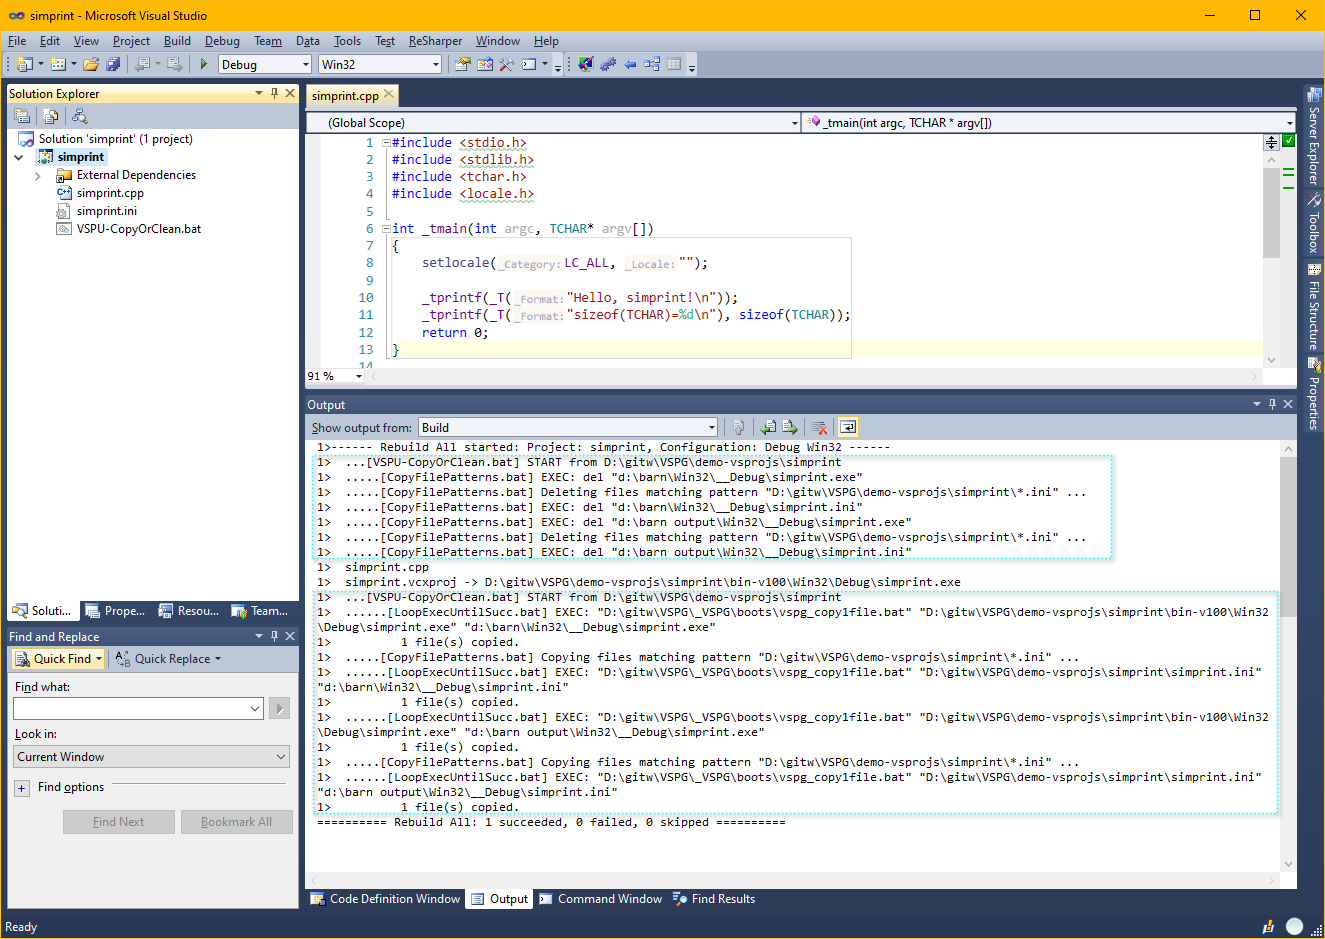
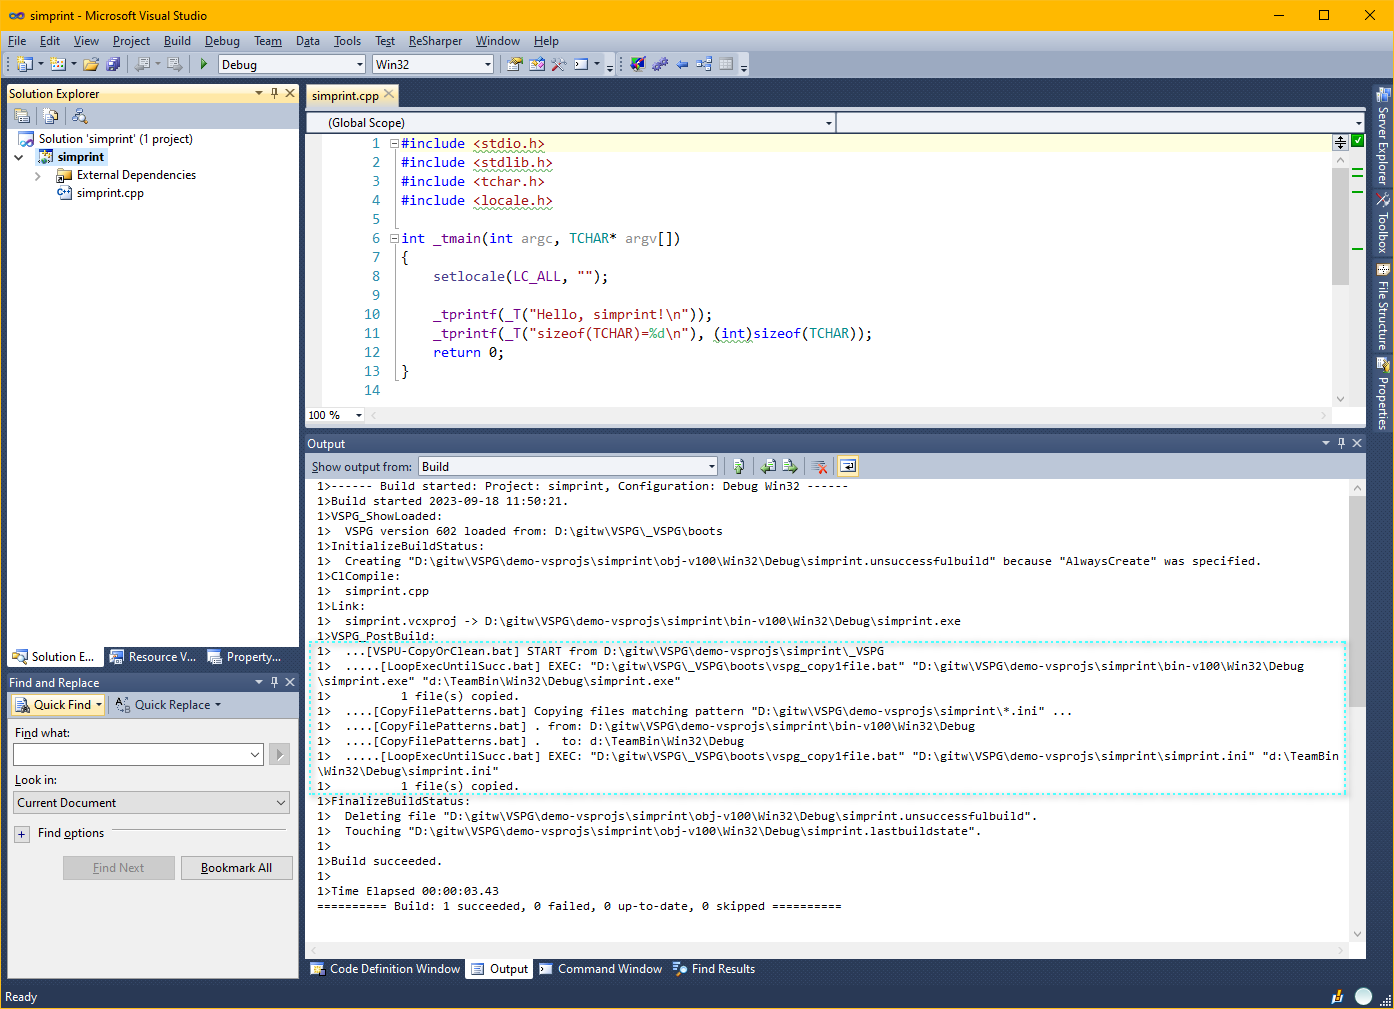
Update demo and doc of simprint.

Changed region(s): [[0.0, 0.0, 1.0, 1.0], [0.9283, 0.0, 0.9592, 0.0309], [0.8355, 0.5559, 0.8664, 0.5868]]

diff --git a/demo-vsprojs/simprint/simprint.cpp b/demo-vsprojs/simprint/simprint.cpp
@@ -8,7 +8,6 @@ int _tmain(int argc, TCHAR* argv[])
 	setlocale(LC_ALL, "");
 	
 	_tprintf(_T("Hello, simprint!\n"));
-	_tprintf(_T("sizeof(TCHAR)=%d\n"), sizeof(TCHAR));
+	_tprintf(_T("sizeof(TCHAR)=%d\n"), (int)sizeof(TCHAR));
 	return 0;
 }
-

diff --git a/demo-vsprojs/simprint/README.md b/demo-vsprojs/simprint/README.md
@@ -2,57 +2,146 @@
 
 This example demonstrates the most commonly used, and perhaps the most intuitive action of VSPG.
 
-By using a triggering file named `VSPU-CopyOrClean.bat`, you tell VSPG to copy output EXE file
-to extra target directories(here called barn directories, or barns).
+By using a triggering file named `VSPU-CopyOrClean.bat`, we tell VSPG to copy output EXE file
+to extra target directories. We can think of `VSPU-CopyOrClean.bat` file as a hook. If a file 
+by this name exists, it will be called(executed) by VSPG framework.
 
-Normally, you don't write `VSPU-CopyOrClean.bat` by hand, which is a bit complicated. 
-You just get its content from [`VSPU-CopyOrClean.bat.sample`](../../_VSPG/samples/VSPU-CopyOrClean.bat.sample) 
-and do minor modification according to your own environment.
+Typically, user places `VSPU-CopyOrClean.bat` side-by-side with .vcxproj, or inside sub-directory 
+named `_VSPG`. VSPG framework will look into these two hook places and calls them if either of 
+them exists. If they both exist, both will be called.
 
-In Visual Studio IDE, build this project(simprint.vcxproj), you see the following build output:
+Convention of choice:
+* If a hook action should be shared by the whole team (i.e., every staff of this software
+project team should take this action when building this project), we place the hook file in `_VSPG`,
+and that hook file is committed to source control like git/svn.
+* If a team member wants to initiate some hook action according to his own preference (for example,
+copy the output exe to a remote-machine shared folder for remote debugging), then the hook file 
+if created side-by-side with .vcxproj, and the hook file is not committed to source control.
+
+## Content of `VSPU-CopyOrClean.bat`
+
+Normally, we don't write `VSPU-CopyOrClean.bat` from scratch, which is quite a bit verbose. 
+
+We just grab a sample .bat from VSPG's stock files and do some customization to the file content.
+
+In this example, 
+* We use the sample file [`VSPU-CopyOrClean.bat.sample1`](../../_VSPG/samples/VSPU-CopyOrClean.bat.sample1) .
+* We copy that sample file to `_VSPG` subdir and rename it to be `VSPU-CopyOrClean.bat` 
+and do minor modification according to our own environment.
+
+The actual working `_VSPG\VSPU-CopyOrClean.bat` file looks like this, which key content marked inside 
+a dashed frame.
+
+![vspu-copy-commands.png](doc/vspu-copy-commands.png)
+
+As we can see, instead of using Windows internal `copy` command to do file copy, we use VSPG-provided 
+`CopyFilePatterns.bat` to do the copy work. The benefit is, `CopyFilePatterns.bat` does quite some 
+extra and friendly work for us. We'll explain this later.
+
+## Build the project in Visual Studio IDE
+
+In Visual Studio IDE(we can use any version since VS2010), open simprint.vcxproj and build it, 
+we see the following build output:
 
 ![VS2010 VSIDE build output](doc/vs2010-build-output.png)
 
 The output text in dashed blue frame is output by VSPG.
 
-And we see that `simprint.exe` and `simprint.ini` are copied to two barn directories:
+And we see that `simprint.exe` and `simprint.ini` are copied to `D:\TeamBin\Win32\Debug` folder.
 
-```
-D:\barn\Win32\__Debug
-D:\barn output\Win32\__Debug
-```
 
-![barn-output-folder.png](doc/barn-output-folder.png)
+![teambin-output-folder.png](doc/teambin-output-folder.png)
 
 ## Explanation of details
 
-### A manual tweak is needed in .cvcxproj 
+### To activate VSPG, a manual tweak is needed in .vcxproj 
 
-To bootstrap VSPG from a specific vcxproj, an `<Import>` statement need to exist at end of the .vcxproj file. For a vcxproj file created by Visual Studio project wizard, we need to add it manually.
+To bootstrap(activate) VSPG from a specific vcxproj, an `<Import>` statement needs to exist 
+at end of the .vcxproj file. For a .vcxproj file created by Visual Studio project wizard, 
+we need to add it manually.
 
-So you see the following content at end of simprint.vcxproj .
+We can see the following content at end of simprint.vcxproj .
 
 ![vcxproj-bootstrap-vspg.png](doc/vcxproj-bootstrap-vspg.png)
 
-Be aware, we must assign a correct directory for `<VSPG_BootsDir_NoTBS>`, otherwise, VSIDE will fail to load this vcxproj.
+Be aware, we must assign a correct directory for `<VSPG_BootsDir_NoTBS>`. 
 
-### VSPU-CopyOrClean.bat
+In this example, `VSPG_BootsDir_NoTBS` has value `..\..\_VSPG\boots`, which is a relative directory, 
+relative to the .vcxproj file. It guides VSIDE to find and import  the file 
+`..\..\_VSPG\boots\_VSPG.props`. 
 
-In `VSPU-CopyOrClean.bat`, we set three variables.
+If you place VSPG framework files at a different directory, you should change `VSPG_BootsDir_NoTBS`'s 
+value accordingly.
 
-(assuming this project is at actual directory `D:\gitw\VSPG\demo-vsprojs\simprint`)
 
-| Var-name | Var-value | Var-value expanded |
-| -------- | --------- | ------------------ |
-| AGILE_COPY_PATTERNS | "%ExeDllDir%\%TargetFilenam%" "%ProjectDir%\*.ini" | "D:\gitw\VSPG\demo-vsprojs\simprint\bin-v100\Win32\Debug\simprint.exe" "D:\gitw\VSPG\demo-vsprojs\simprint\*.ini" |
-|  AGILE_BARN_DIRS | d:\barn "d:\barn output" | d:\barn "d:\barn output" |
-| BARN_SUBDIR | %PlatformName%\\__%BuildConf% | Win32\\__Debug |
+### `CopyFilePatterns.bat` copes with copy, as well as clean 
 
-These variables(name or value) are passed to `CopyFilePatternsToDirs.bat` to carry out actual copy operation.
+If we tell VSIDE to **clean** the simprint project, we'll see that The files in 
+`D:\TeamBin\Win32\Debug` are also cleaned(deleted). This time, we see these messages in 
+VSIDE Output pane, Build region:
+
+```
+1>------ Clean started: Project: simprint, Configuration: Debug Win32 ------
+1>Build started 2023-09-18 12:11:45.
+1>_PrepareForClean:
+1>  Deleting file "D:\gitw\VSPG\demo-vsprojs\simprint\obj-v100\Win32\Debug\simprint.lastbuildstate".
+1>VSPG_Clean:
+1>  ...[VSPU-CopyOrClean.bat] START from D:\gitw\VSPG\demo-vsprojs\simprint\_VSPG
+1>  ....[CopyFilePatterns.bat] EXEC: del "d:\TeamBin\Win32\Debug\simprint.exe"
+1>  ....[CopyFilePatterns.bat] Deleting files matching pattern "D:\gitw\VSPG\demo-vsprojs\simprint\*.ini" ...
+1>  ....[CopyFilePatterns.bat] . ref-dir: D:\gitw\VSPG\demo-vsprojs\simprint\bin-v100\Win32\Debug
+1>  ....[CopyFilePatterns.bat] . del-dir: d:\TeamBin\Win32\Debug
+1>  ....[CopyFilePatterns.bat] EXEC: del "d:\TeamBin\Win32\Debug\simprint.ini"
+1>
+1>Build succeeded.
+1>
+1>Time Elapsed 00:00:00.98
+========== Clean: 1 succeeded, 0 failed, 0 skipped ==========
+```
+
+This is one of the benefits using `CopyFilePatterns.bat`, compared to manually calling `copy` 
+command ourselves.
+
+### Elegent message output from VSPG
+
+We can intuitively see that, VSPG's message output is quite distinguishable from those of
+Visual Studio(MSBuild) itself.
+* For each VSPG output line, it is prefixed with multiple leading dots, indicating current 
+bat's nested calling level (indention level).
+* After the indention dots, there is indication of current .bat's filename, so that, if some 
+VSPG .bat execution fails, we can easily identity the causing .bat .
+
+![vspg-indention-desc.png](doc/vspg-indention-desc.png)
+
+Actually, we can make a text output same elegant like this. Instead of using `echo` command 
+in .bat file, we use `call :Echos My text message` instead.
+
+The `:Echos` is a bat function defined right inside `VSPU-CopyOrClean.bat`, so we can call it.
+
+The function definition is quite simple:
+
+```
+:Echos
+  REM This function preserves %ERRORLEVEL% for the caller,
+  REM and, LastError does NOT pollute the caller.
+  setlocal & set LastError=%ERRORLEVEL%
+  echo %_vspgINDENTS%[%batfilenam%] %*
+exit /b %LastError%
+
+```
+
+Be aware, avoid using batch meta-character in your text passed to `:Echos`, which would cause 
+trouble.
+
+Batch meta-characters contains: `^`, `&` etc.
+
 
 ### Then how does our `VSPU-CopyOrClean.bat` get invoked during the build?
 
-That's because we have vcxproj import VSPG framework file `_VSPG.props`.
+That's because we have vcxproj import VSPG framework file `_VSPG.props` (described above),
+and, `_VSPG.props` defines an MSBuild target named `VSPG_PostBuild` and hook it into MSBuild 
+target tree, right after `PostBuildEvent`. The action of `VSPG_PostBuild` , is to execute 
+`VSPG-Boots.bat` which internally calls `VSPU-CopyOrClean.bat`.
 
 If you're interested, open `_VSPG.props` in a text editor, you will see such MSBuild statement:
 
@@ -67,9 +156,7 @@ If you're interested, open `_VSPG.props` in a text editor, you will see such MSB
   </Target>
 ```
 
-Here, VSPG defines a MSBuild target named `VSPG_PostBuild` and hook it into MSBuild target tree, right after `PostBuildEvent`. The action of this target, is to execute `VSPG-Boots.bat` which internally calls `VSPU-CopyOrClean.bat`.
-
-### More info
+## More info
 
 [General view of VSPG](../../_VSPG/VSPG-how-to-use.md)
 

diff --git a/_VSPG/samples/VSPU-CopyOrClean.bat.md b/_VSPG/samples/VSPU-CopyOrClean.bat.md
@@ -1,5 +1,5 @@
 
-Demo program: [simprint](../../demo-vsprojs/simprint)
+Demo program: [simprint](../../demo-vsprojs/simprint/README.md)
 
 ## Triggering point
 
@@ -29,6 +29,9 @@ Sample1 is the simple case that shows how to copy one or more files to a single 
 
 - To make it copy compiler-output .exe/.dll to your desired folder, you need only one modification, that is, change the value of `output_folder`.
 - If you want more files to get copied to `%output_folder%`, that is still simple, just append more filename and/or filepath to `filenams_to_copy`.
+
+The [simprint project](../../demo-vsprojs/simprint/README.md) shows the actual use case.
+
 
 At sample1's heart, it calls VSPG's `CopyFilePatterns.bat` to do the hard work.
 
